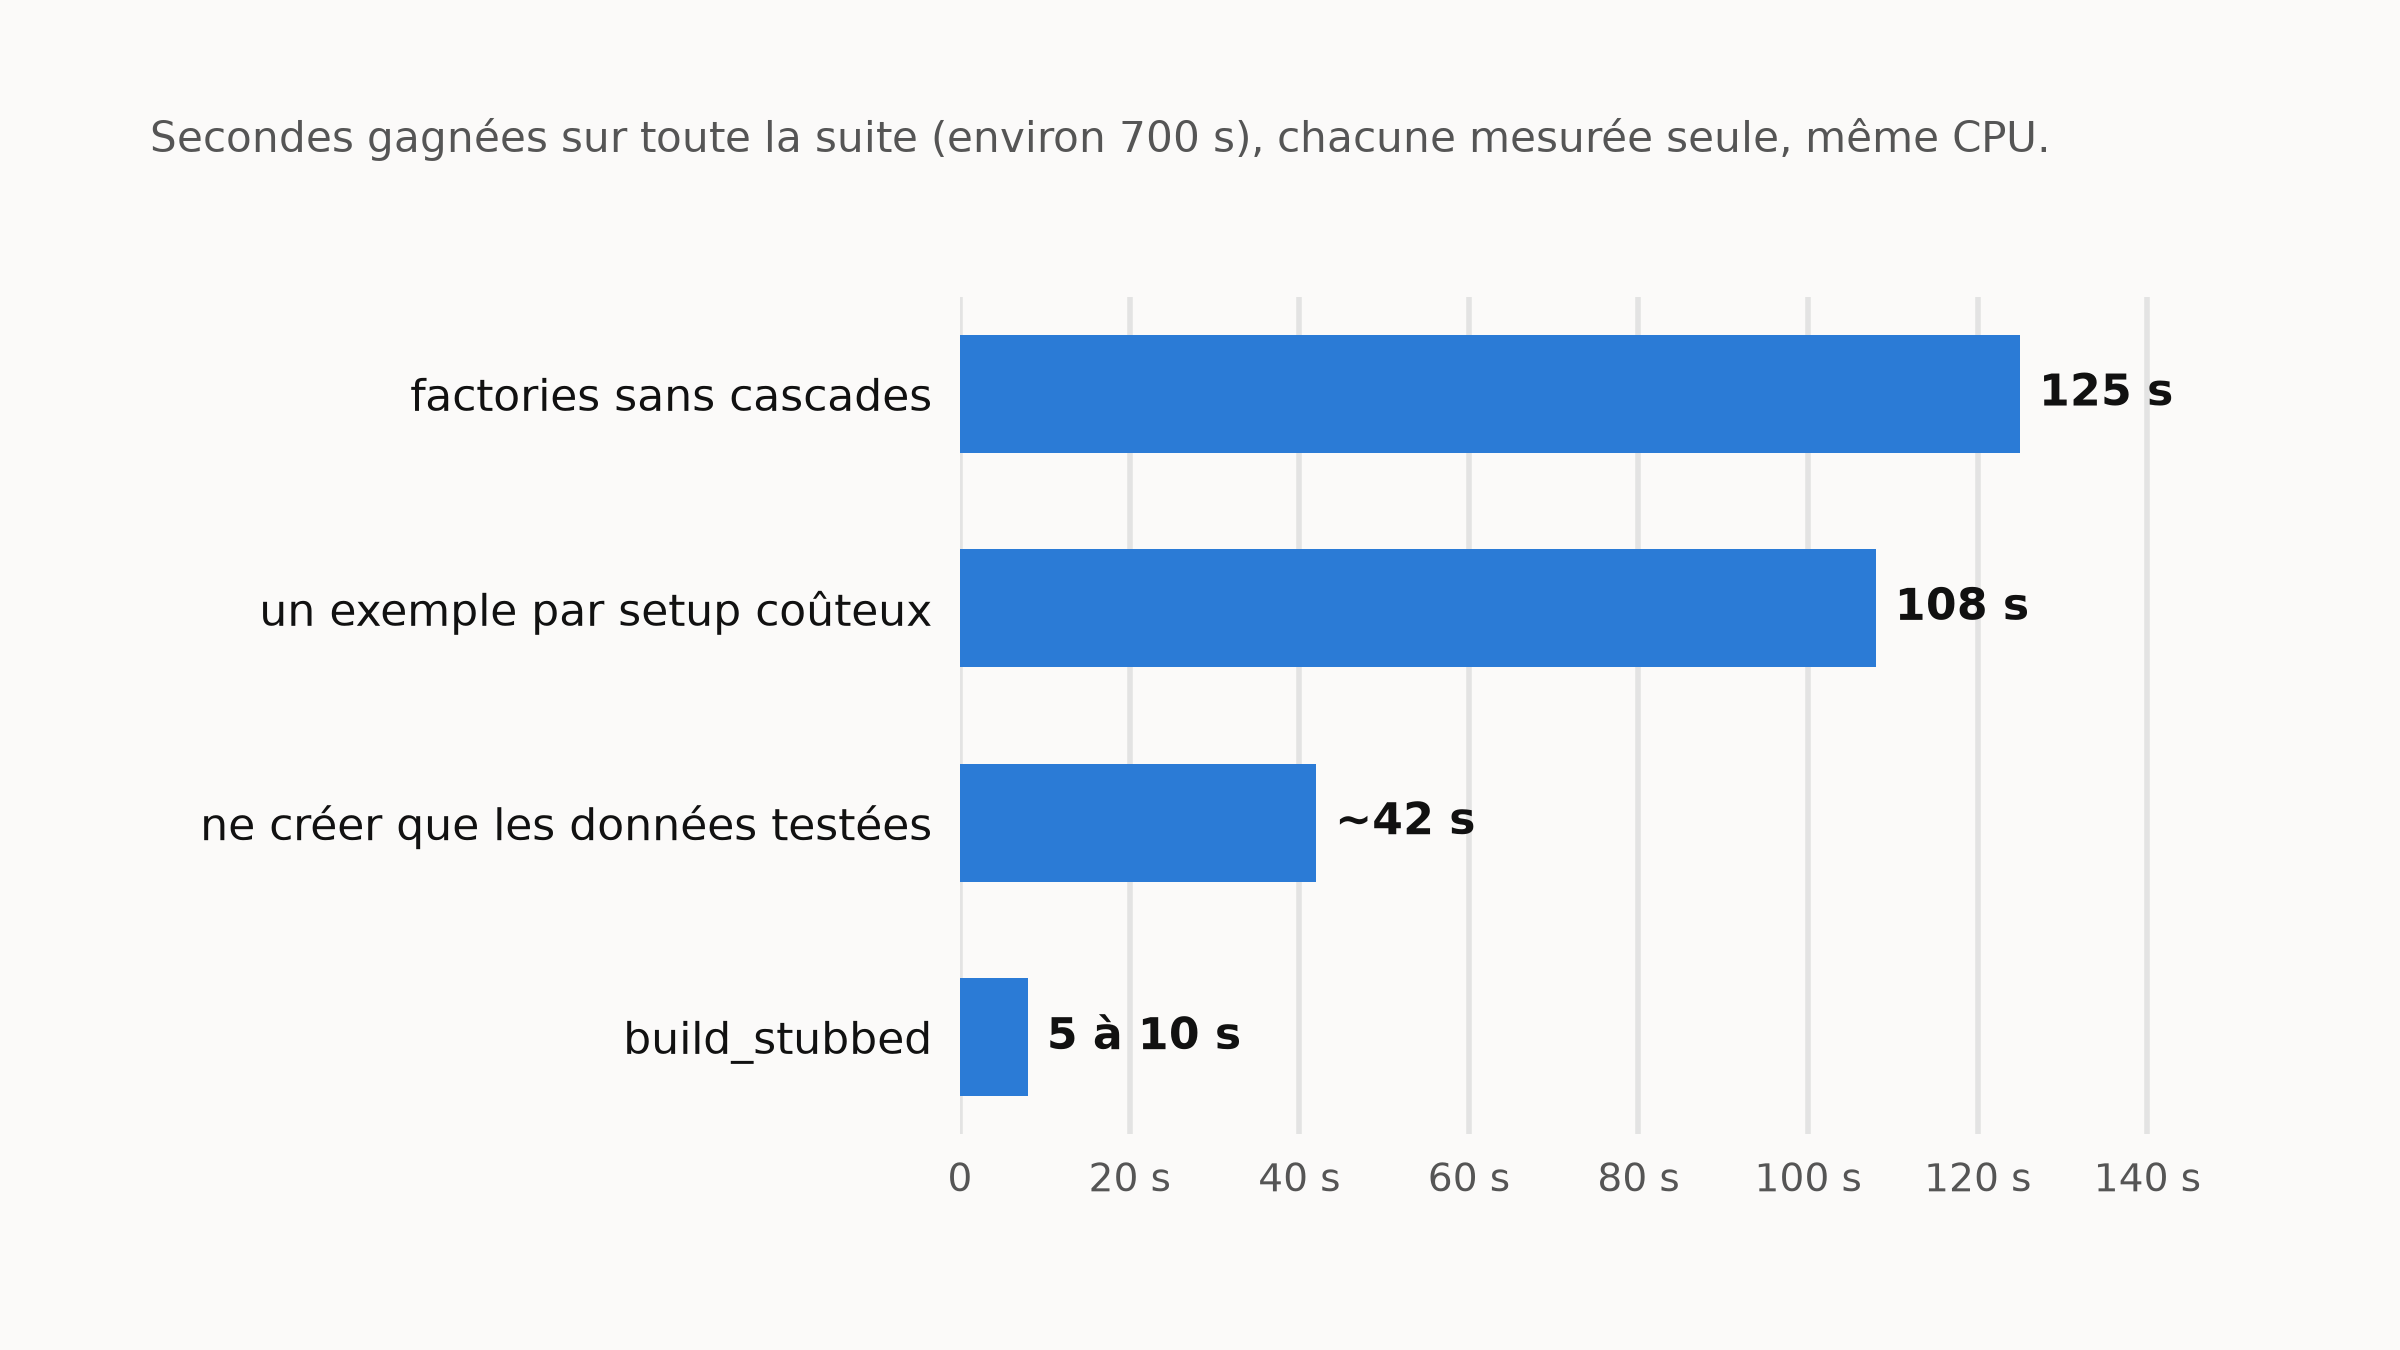
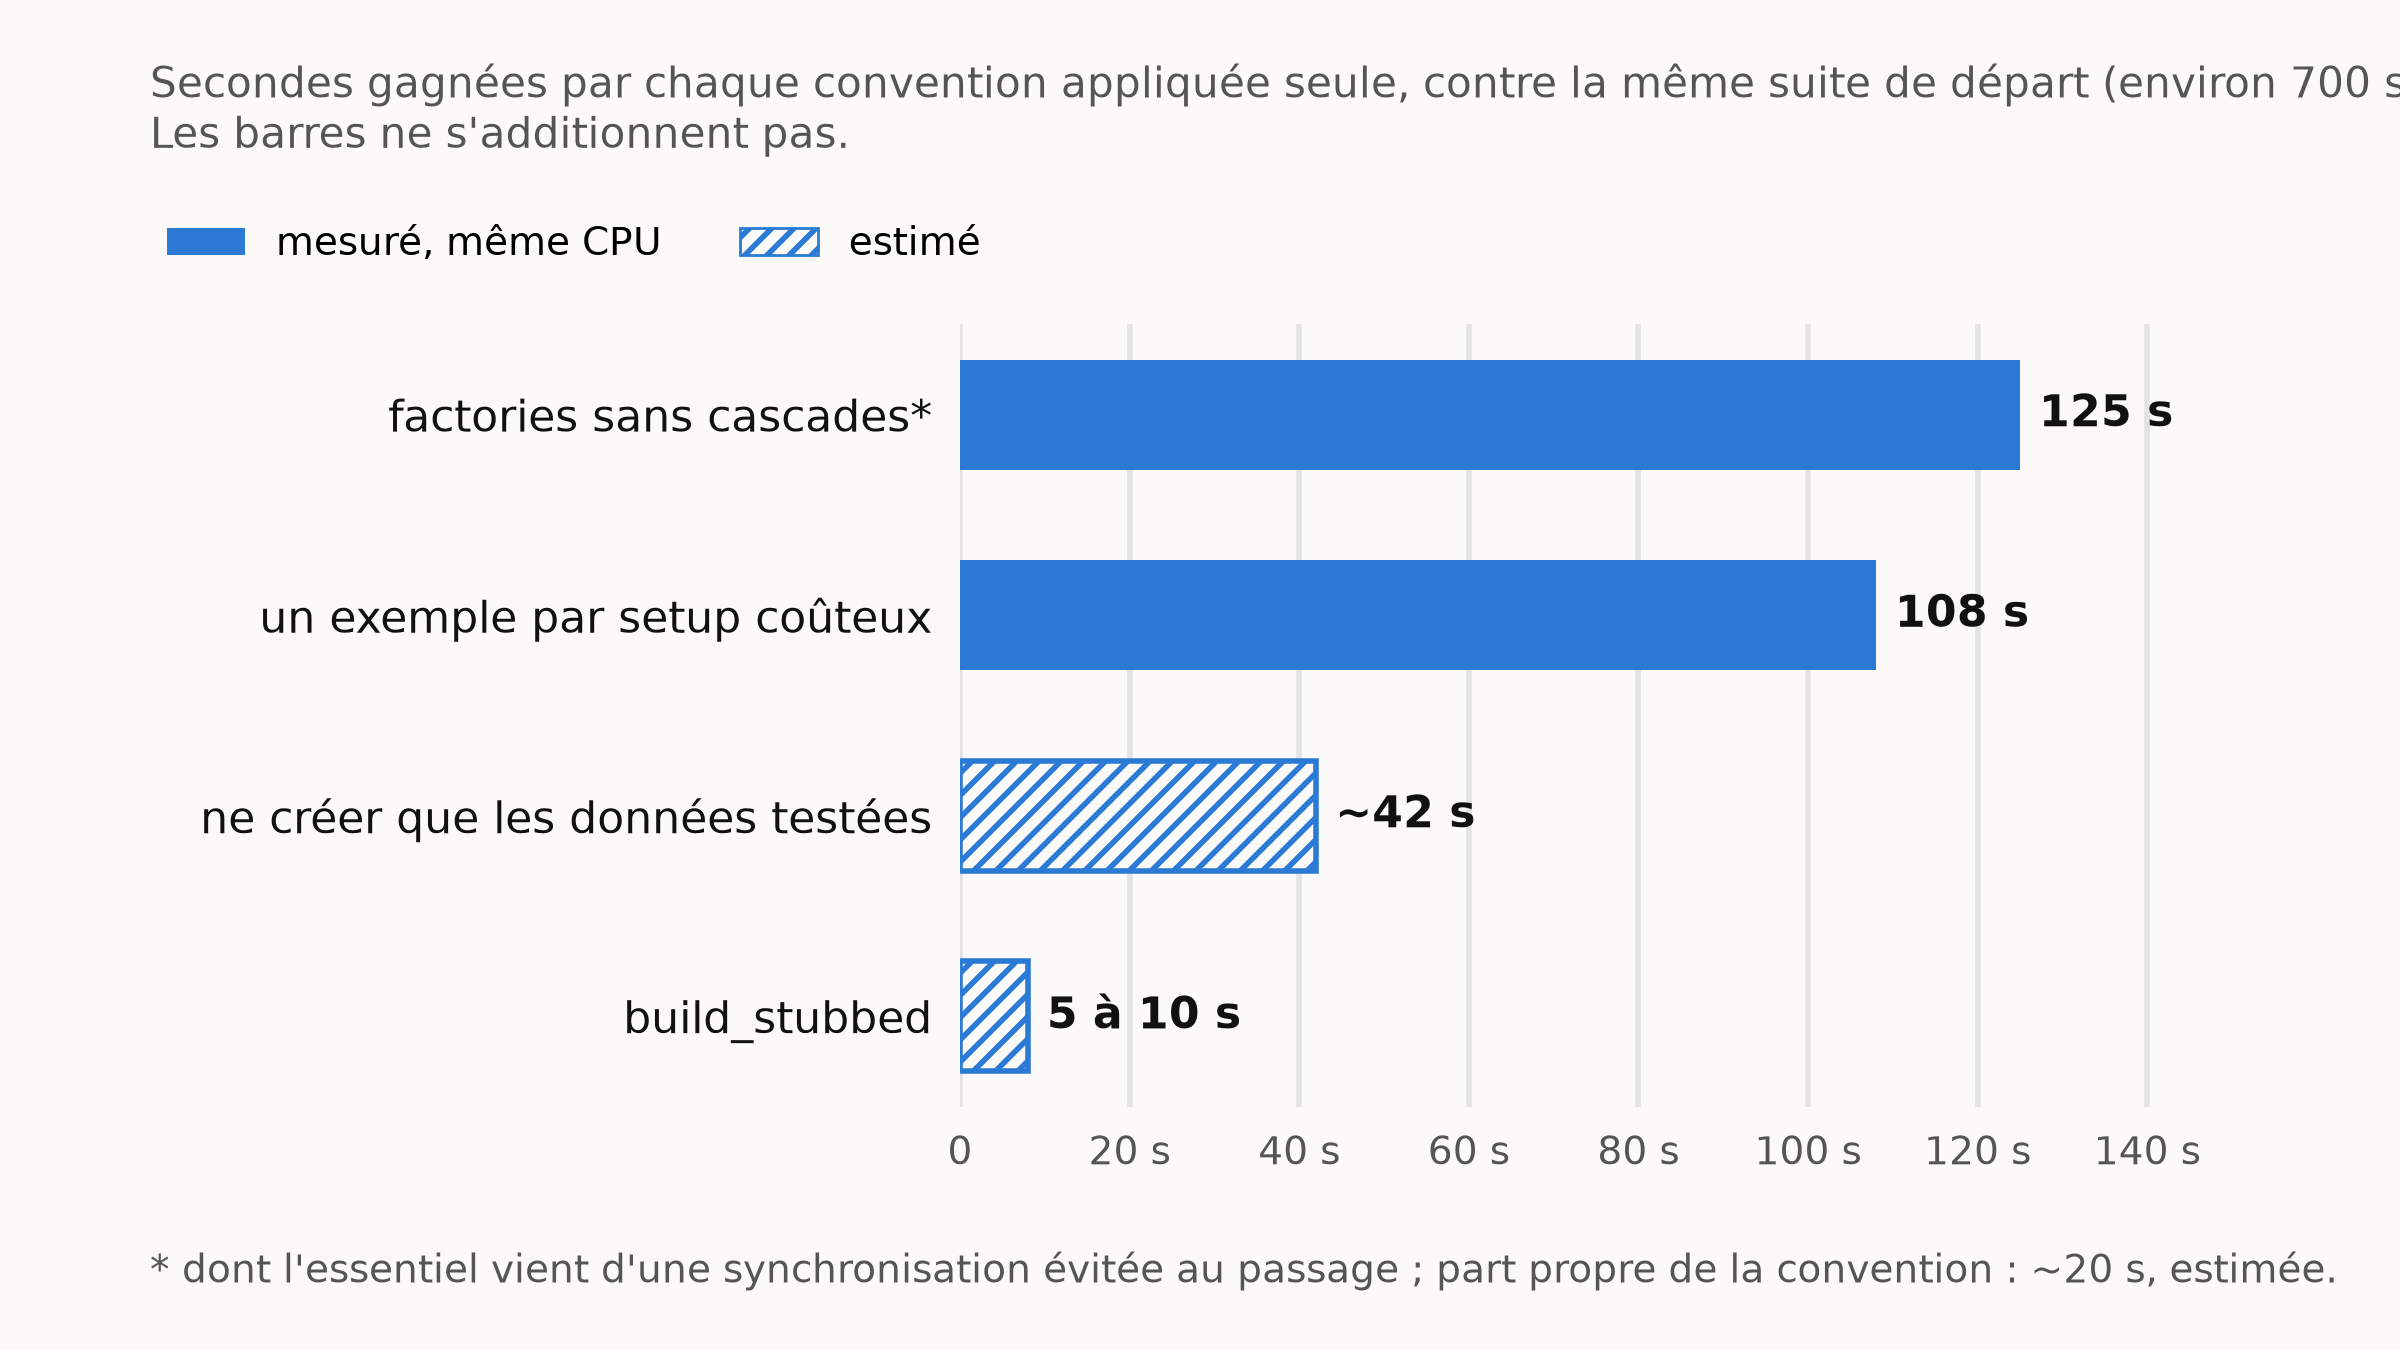
blog: Alléger les specs RSpec, chaque chiffre dit ce qu'il est
Gains mesurés un par un contre la même suite de départ, estimations
marquées comme telles (texte et graphique), part propre des cascades
estimée, 18 mailing_account demandés par un spec et non lus.

diff --git a/content/blog/alleger-les-specs-rspec/fr.md b/content/blog/alleger-les-specs-rspec/fr.md
@@ -4,16 +4,16 @@ slug: alleger-les-specs-rspec
 date: 2026-12-03
 author: "Nicolas Rouanne"
 cover: "gains-fr.png"
-excerpt: "Paralléliser RSpec a réduit l'attente, pas le travail. Quatre conventions de specs, mesurées une par une : ce que chacun fait gagner, par test et sur toute la suite."
+excerpt: "Paralléliser RSpec a réduit l'attente, pas le travail. Quatre conventions de specs, mesurées une par une : ce que chacune fait gagner, par test et sur toute la suite."
 ---
 
 Chez un de nos clients, [paralléliser RSpec](/blog/paralleliser-rspec-sur-github-actions) a fait passer la CI d'une PR de 10 à moins de 5 minutes. Mais paralléliser, comme prendre des machines plus grosses, ne fait que répartir le même travail : on attend moins, la suite n'est pas plus efficace. La cause, ce sont des tests qui font beaucoup plus de travail que ce qu'ils vérifient, et c'est là-dessus qu'on a travaillé.
 
 Et ça se cumule : une factory corrigée accélère tous les specs qui l'utilisent, ceux d'aujourd'hui comme ceux qu'on écrira demain, et un spec écrit avec les bonnes conventions est rapide dès le départ.
 
-On a appliqué quatre conventions de specs. Chaque changement a été mesuré seul, sur une seule machine : la suite d'origine, puis la suite avec le changement, l'une après l'autre.
+On a appliqué quatre conventions de specs. Chacune a été appliquée seule à la même suite de départ, puis les deux versions ont tourné l'une après l'autre sur une même machine. Les gains ne s'additionnent donc pas, et deux d'entre eux, trop petits pour sortir du bruit de mesure, sont des estimations.
 
-![Secondes gagnées sur toute la suite par chaque amélioration, mesurée seule](gains-fr.png "Chaque barre est mesurée seule : les gains ne s'additionnent pas exactement.")
+![Secondes gagnées sur toute la suite par chaque convention, appliquée seule à la même suite de départ](gains-fr.png "Une barre par convention, chacune contre la même suite de départ : les barres ne s'additionnent pas.")
 
 ## Un seul exemple par setup coûteux
 
@@ -68,7 +68,7 @@ it { is_expected.not_to be_valid }
 
 ![Temps pour créer un user admin, en base ou en mémoire](stubbed-fr.png "Mesuré sans le compte que la factory ajoutait : on ne compare que l'écriture en base.")
 
-Ce sont quelques millisecondes par objet : sur les 19 fichiers où on l'a appliqué, le gain tourne autour de 1 % de la suite. [FactoryDoctor](https://test-prof.evilmartians.io/guide/profilers/factory_doctor) estimait à 29,8 s tout ce que la suite enregistrait sans jamais le relire.
+Ce sont quelques millisecondes par objet : sur les 19 fichiers où on l'a appliqué, le gain est estimé à 5 à 10 s, environ 1 % de la suite, trop peu pour ressortir d'une mesure. [FactoryDoctor](https://test-prof.evilmartians.io/guide/profilers/factory_doctor) estimait à 29,8 s tout ce que la suite enregistrait sans jamais le relire.
 
 ## Des factories sans cascades
 
@@ -87,7 +87,7 @@ factory :user do
 end
 ```
 
-Un questionnaire créé dans un spec, c'était donc aussi deux comptes, deux `mailing_account` et un owner, même quand le spec ne regardait que le questionnaire. Un défaut de factory se paie dans chaque spec qui utilise la factory, et dans chaque factory qui l'associe : 5 540 `mailing_account` étaient créés, pour 18 lus.
+Un questionnaire créé dans un spec, c'était donc aussi deux comptes, deux `mailing_account` et un owner, même quand le spec ne regardait que le questionnaire. Un défaut de factory se paie dans chaque spec qui utilise la factory, et dans chaque factory qui l'associe : 5 540 `mailing_account` étaient créés, dont 18 seulement demandés directement par un spec.
 
 La correction : l'owner n'a plus de compte, le `mailing_account` devient un trait qu'on demande, et les enregistrements enfants réutilisent le questionnaire de leur parent au lieu d'en créer un autre.
 
@@ -106,9 +106,9 @@ end
 
 Créer un questionnaire passe de 48 à 9 ms, et la suite en crée plus de 4 000 :
 
-![Temps moyen pour créer un questionnaire et un user, avec et sans cascades](cascades-fr.png "Mesuré par FactoryProf sur toute la suite.")
+![Temps moyen pour créer un questionnaire et un user, avec et sans cascades](cascades-fr.png "Mesuré par FactoryProf sur toute la suite, même CPU.")
 
-Sur toute la suite, ça fait 38 134 enregistrements créés au lieu de 44 135, et la suite passe de 699 à 574 s (−18 %).
+Sur toute la suite, ça fait 38 134 enregistrements créés au lieu de 44 135, et la suite passe de 699 à 574 s (−18 %). La plupart de ce gain vient d'une synchronisation coûteuse que la factory relançait à chaque exemple en créant le compte de l'owner, et que la correction évite au passage : la part propre de la convention est estimée à une vingtaine de secondes.
 
 Le même défaut restait sur les users staff : la factory donnait un compte à chaque user, même aux admins, qui n'en ont pas en production (leur accès vient de leur type). Ce compte coûtait plus que tout ce que `build_stubbed` faisait gagner :
 
@@ -137,7 +137,7 @@ Même idée ailleurs : un rapport créait 20 répondants par profil, alors que 4
 
 ![Durée du spec du rapport, avec 20 puis 4 répondants par profil](minimal-fr.png "Mêmes 8 exemples, mêmes vérifications.")
 
-Sur les 4 fichiers concernés, ça fait gagner environ 42 s. C'est moins que l'écart entre deux mesures du même code (50 à 100 s) : sur toute la suite, on ne le voit pas, il faut mesurer fichier par fichier.
+Sur les 4 fichiers concernés, le profil de chaque fichier donne un gain d'environ 42 s, une estimation. C'est moins que l'écart entre deux mesures du même code (50 à 100 s) : sur toute la suite, on ne le voit pas, il faut mesurer fichier par fichier.
 
 ## Et maintenant
 

diff --git a/content/blog/alleger-les-specs-rspec/en.md b/content/blog/alleger-les-specs-rspec/en.md
@@ -11,9 +11,9 @@ At one of our clients, [parallelizing RSpec](/en/blog/parallelizing-rspec-on-git
 
 And it compounds: a fixed factory speeds up every spec that uses it, today's and the ones we'll write tomorrow, and a spec written with the right conventions is fast from the start.
 
-We applied four spec conventions. Each change was measured alone, on a single machine: the original suite, then the suite with the change, one after the other.
+We applied four spec conventions. Each one was applied alone to the same starting suite, then both versions ran one after the other on the same machine. So the gains don't add up, and two of them, too small to stand out from measurement noise, are estimates.
 
-![Seconds saved on the whole suite by each improvement, measured alone](gains-en.png "Each bar is measured alone: the gains don't add up exactly.")
+![Seconds saved on the whole suite by each convention, applied alone to the same starting suite](gains-en.png "One bar per convention, each against the same starting suite: the bars don't add up.")
 
 ## One example per expensive setup
 
@@ -68,7 +68,7 @@ it { is_expected.not_to be_valid }
 
 ![Time to create an admin user, in the database or in memory](stubbed-en.png "Measured without the account the factory added: this only compares the database write.")
 
-That's a few milliseconds per object: across the 19 files where we applied it, the gain is around 1% of the suite. [FactoryDoctor](https://test-prof.evilmartians.io/guide/profilers/factory_doctor) put everything the suite saved without ever reading it back at 29.8 s.
+That's a few milliseconds per object: across the 19 files where we applied it, the gain is estimated at 5 to 10 s, about 1% of the suite, too little to show up in a measurement. [FactoryDoctor](https://test-prof.evilmartians.io/guide/profilers/factory_doctor) put everything the suite saved without ever reading it back at 29.8 s.
 
 ## Factories without cascades
 
@@ -87,7 +87,7 @@ factory :user do
 end
 ```
 
-So a survey created in a spec also meant two accounts, two `mailing_account`s and an owner, even when the spec only looked at the survey. A factory default is paid for in every spec that uses the factory, and in every factory that associates it: 5,540 `mailing_account`s were created, for 18 read.
+So a survey created in a spec also meant two accounts, two `mailing_account`s and an owner, even when the spec only looked at the survey. A factory default is paid for in every spec that uses the factory, and in every factory that associates it: 5,540 `mailing_account`s were created, only 18 of them requested directly by a spec.
 
 The fix: the owner no longer has an account, `mailing_account` becomes a trait you ask for, and child records reuse their parent's survey instead of creating another one.
 
@@ -106,9 +106,9 @@ end
 
 Creating a survey goes from 48 to 9 ms, and the suite creates more than 4,000 of them:
 
-![Average time to create a survey and a user, with and without cascades](cascades-en.png "Measured by FactoryProf over the whole suite.")
+![Average time to create a survey and a user, with and without cascades](cascades-en.png "Measured by FactoryProf over the whole suite, same CPU.")
 
-Over the whole suite, that's 38,134 records created instead of 44,135, and the suite goes from 699 to 574 s (−18%).
+Over the whole suite, that's 38,134 records created instead of 44,135, and the suite goes from 699 to 574 s (−18%). Most of that gain comes from an expensive sync the factory reran in every example when it created the owner's account, which the fix happens to skip: the convention's own share is estimated at about twenty seconds.
 
 The same default remained on staff users: the factory gave every user an account, even admins, who have none in production (their access comes from their type). That account cost more than everything `build_stubbed` saved:
 
@@ -137,7 +137,7 @@ Same idea elsewhere: a report created 20 respondents per profile, when 4 are eno
 
 ![Duration of the report spec, with 20 then 4 respondents per profile](minimal-en.png "Same 8 examples, same checks.")
 
-Across the 4 files involved, this saves about 42 s. That's less than the gap between two measurements of the same code (50 to 100 s): on the whole suite you can't see it, you have to measure file by file.
+Across the 4 files involved, each file's profile puts the gain at about 42 s, an estimate. That's less than the gap between two measurements of the same code (50 to 100 s): on the whole suite you can't see it, you have to measure file by file.
 
 ## What's next
 
